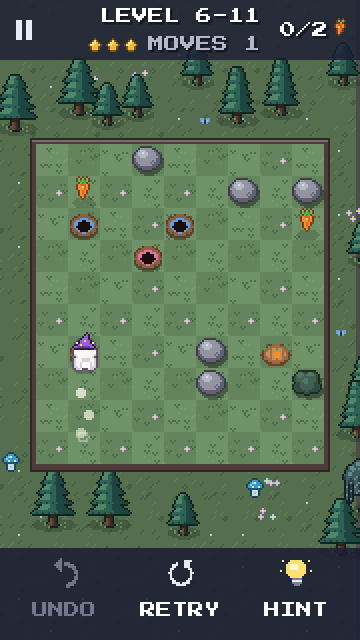
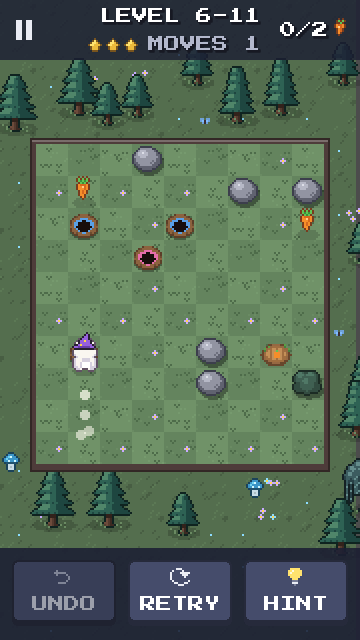
Fresh Hoplow + Inchway screenshots (pill buttons); Inchway's Polish page gets Polish shots; sync picks up Inchway's trailer from build/reels
Claude-Session: https://claude.ai/code/session_01Xx1yimGbFqiiTqAYzSa7ec

diff --git a/src/data/site.ts b/src/data/site.ts
@@ -32,7 +32,7 @@ export const GAMES: Game[] = [
   },
   {
     id: "inchway", name: "Inchway", accent: "#F5D46B", status: "test",
-    shots: ["2_drive", "6_emergency", "7_winter", "9_city", "10_garage"], shotLangs: ["en"], videoLangs: ["en"],
+    shots: ["2_drive", "6_emergency", "7_winter", "9_city", "10_garage"], shotLangs: ["en", "pl"], videoLangs: ["en"],
     tag: { en: "Dodge traffic, read the road, don't crash – a pixel-art lane runner.",
            pl: "Omijaj auta, czytaj drogę, nie rozbij się – pixelowa jazda po pasach." },
     lead: { en: "Steer with a slider and weave through traffic on a five-lane highway. Cars signal before they change lanes, so the road tells you what comes next – if you read it.",

diff --git a/tools/sync_assets.py b/tools/sync_assets.py
@@ -68,8 +68,11 @@ def policy(game):
 
 
 def video(game, lang):
-    """build/trailer/trailer_<lang>.mp4 (1920x1080, make_trailer.py) -> 1280x720 for the web + a poster."""
+    """build/trailer/trailer_<lang>.mp4 (1920x1080, make_trailer.py; Inchway: build/reels/trailer.mp4,
+    English only) -> 1280x720 for the web + a poster."""
     src = ARCADE / game / "build" / "trailer" / f"trailer_{lang}.mp4"
+    if not src.exists() and lang == "en":
+        src = ARCADE / game / "build" / "reels" / "trailer.mp4"
     out = PUB / "video" / f"{game}_{lang}.mp4"
     if not src.exists():
         return out.exists()
